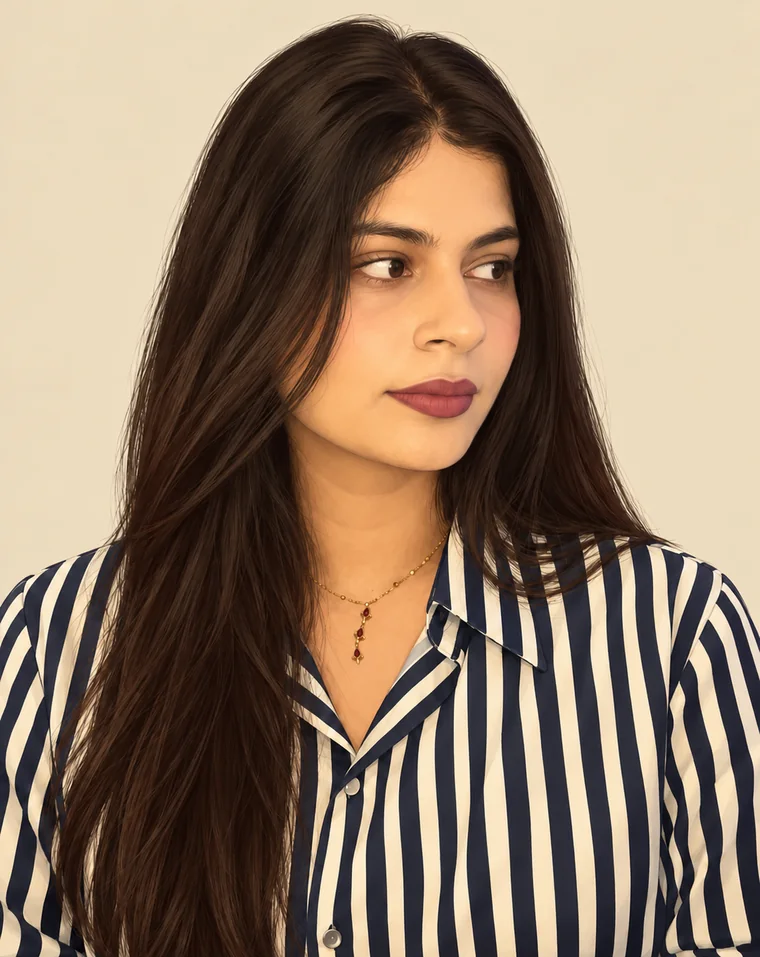
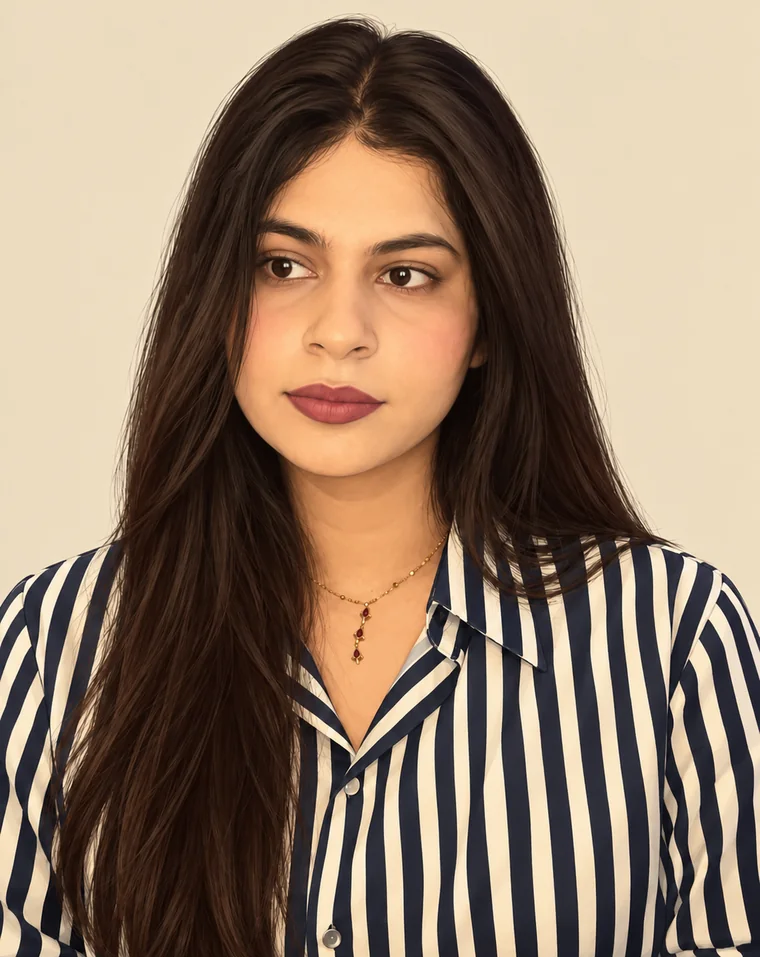
Update the striped head turn to 33 frames
Adds Codex's optical-flow in-betweens (backgrounds kept, WebP, 2.6 MB total) and stops the intro from overriding a visitor who is already moving the mouse.

diff --git a/index.html b/index.html
@@ -843,7 +843,7 @@ footer { display: flex; justify-content: space-between; gap: 12px; flex-wrap: wr
 <script>
 (() => {
   // Head-turn frames: set count to the number of frames in assets/striped-web/ (000.webp …) and front to the straight-on frame.
-  const TURN = { count: 13, front: 6, positions: [-1,-0.6666666666666666,-0.3333333333333333,-0.25,-0.16666666666666666,-0.08333333333333333,0,0.08333333333333333,0.16666666666666666,0.25,0.3333333333333333,0.6666666666666666,1], src: i => `assets/striped-web/${String(i).padStart(3, '0')}.webp` };
+  const TURN = { count: 33, front: 20, positions: [-1.0,-0.92,-0.84,-0.75,-0.66,-0.55,-0.44,-0.37,-0.3,-0.2825,-0.265,-0.2475,-0.23,-0.2125,-0.195,-0.1775,-0.16,-0.12,-0.08,-0.04,0.0,0.0417,0.0833,0.125,0.1667,0.2083,0.25,0.2917,0.3333,0.5,0.6667,0.8333,1.0], src: i => `assets/striped-web/${String(i).padStart(3, '0')}.webp` };
   const root = document.documentElement;
   // Native scrolling; in-page jumps glide via the browser's own smooth scroll.
   const goTo = y => scrollTo({ top: typeof y === 'number' ? y : y.getBoundingClientRect().top + scrollY, behavior: 'smooth' });
@@ -1170,11 +1170,13 @@ footer { display: flex; justify-content: space-between; gap: 12px; flex-wrap: wr
     const hint = document.createElement('span');
     hint.className = 'turn-hint'; hint.textContent = fine ? 'move your cursor ✦' : '← swipe her →';
     stage.append(hint);
-    let introOn = false;
-    const stopIntro = () => { if (!introOn) return; introOn = false; hint.classList.remove('is-on'); };
+    // Anyone who has already moved the mouse or touched her is in control: the intro never plays over them.
+    let introOn = false, interacted = false;
+    const stopIntro = () => { interacted = true; if (!introOn) return; introOn = false; hint.classList.remove('is-on'); };
     stage.addEventListener('pointerdown', stopIntro);
-    addEventListener('pointermove', e => { if (e.pointerType === 'mouse' && e.movementX) stopIntro(); }, { passive: true });
+    addEventListener('pointermove', e => { if (e.pointerType === 'mouse') stopIntro(); }, { passive: true });
     Promise.all(Array.from({ length: TURN.count }, (_, i) => load(i).decode().catch(() => {}))).then(() => {
+      if (interacted) return;
       introOn = true; heldUntil = performance.now() + 4200;
       const steps = [[-1, 500], [1, 1500], [0, 2600]];
       steps.forEach(([t, at]) => setTimeout(() => { if (introOn) { target = t; heldUntil = performance.now() + 2500; } }, at));
